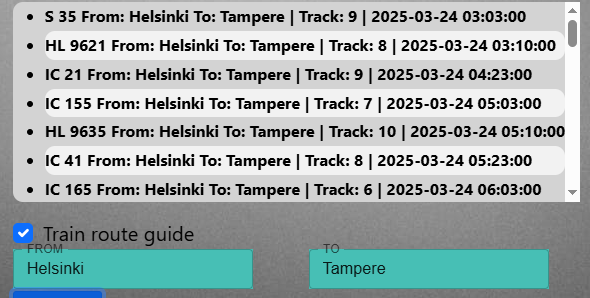
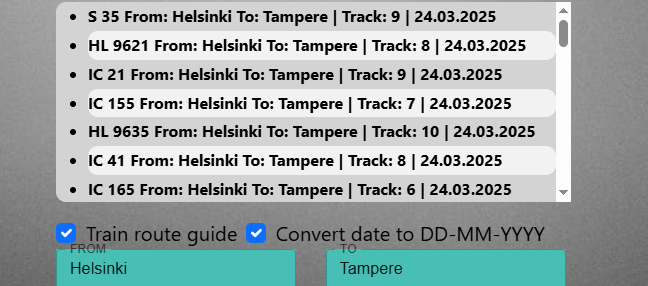
date convert feature added to train.js

diff --git a/src/pages/train.js b/src/pages/train.js
@@ -33,6 +33,7 @@ function Train() {
     const [include, setInclude] = useState(false)
     var [FromStation, setFromStation] = useState('')
     var [toStation, setToStaion] = useState('')
+    var [dateConvert,setDateConvert]=useState(false)
     let date = Date()
     var [dateValue, setDateValue] = useState(dayjs(date))
     const stations = ["Helsinki", "Tampere", "Oulu", "Vaasa", "Seinäjoki", 'Jyväskylä', 'Rovaniemi', 'Kajaani', 'Joensuu']
@@ -44,7 +45,7 @@ function Train() {
     }
     function fromStation(day) {
         var URLi = ""
-        console.log(FromStation)
+        document.getElementById("list").innerText=" "
         //ensimmäisen kirjaimen muunto isoksi kirjaimeksi, koska stationrealnamesin propertyt on isolla kirjaimella
         FromStation = FromStation.charAt(0).toUpperCase() + FromStation.slice(1)
         toStation = toStation.charAt(0).toUpperCase() + toStation.slice(1)
@@ -80,8 +81,20 @@ function Train() {
                     if (i % 2 == 0) {
                         li.setAttribute("class", "liData2")
                     }
+                    var dateFormat=dayjs(d.timeTableRows[0].scheduledTime)
+                    
+                    if (dateConvert)
+                    {
+                        li.innerText = d.trainType+" "+d.trainNumber+" From: " + FromStation + " To: " + " " + toStation + " | Track: " + d.timeTableRows[0].commercialTrack + " |" + " " + dateFormat.format("DD.MM.YYYY")
 
-                    li.innerText = d.trainType+" "+d.trainNumber+" From: " + FromStation + " To: " + " " + toStation + " | Track: " + d.timeTableRows[0].commercialTrack + " |" + " " + d.timeTableRows[0].scheduledTime.replace("T", " ").replace(".000Z", " ")
+                    }
+                    else{
+                        li.innerText = d.trainType+" "+d.trainNumber+" From: " + FromStation + " To: " + " " + toStation + " | Track: " + d.timeTableRows[0].commercialTrack + " |" + " " + d.timeTableRows[0].scheduledTime.replace("T", " ").replace(".000Z", " ")
+
+                    }
+
+
+                  
                     document.getElementById("list").appendChild(li)
                 })
 
@@ -262,7 +275,10 @@ function Train() {
             </div>
             <div>
                 <input class="form-check-input" style={{ marginRight: 10 + "px" }} type="checkbox" value="" id="routeguide" onChange={changeStates}></input>
-                <label class="form-check-label" for="ArrivingDeparting">Train route guide</label>
+                <label class="form-check-label" for="roteguide">Train route guide</label>
+
+                <input hidden={routeGuide} class="form-check-input" style={{ marginRight: 10 + "px" }} type="checkbox" value="" id="convertDate" onChange={()=>setDateConvert(!dateConvert)}></input>
+                <label hidden={routeGuide} class="form-check-label" for="convertDate">Convert date to DD-MM-YYYY</label>
 
             </div>
 

diff --git a/README.md b/README.md
@@ -47,7 +47,7 @@ Example image where the user has selected Seinäjoki station.
 
 ROUTE GUIDE FOR TRAINS
 
-The user can search for routes by entering the departure station, destination station and travel date. The application searches information using these criteria and displays a list of trains matching the criteria to the user. The result shows the user the departure time, departure date and departure track. The route guide input fields use MUI autocomplete fields.
+The user can search for routes by entering the departure station, destination station and travel date. The application searches information using these criteria and displays a list of trains matching the criteria to the user. The result shows the user the departure time, departure date and departure track. The route guide input fields use MUI autocomplete fields. Rest-Api response dates are in YYYY-MM-DD format by default. The user can change the format by clicking the "Convert date DD-MM-YYYY" checkbox. The conversion is done using the dayjs library. In the example image below, the user has converted the dates to DD-MM-YYYY.
 
 Example views of the route guide and results where the user has searched for trains from Helsinki to Tampere on the date 24.3.25.
 
